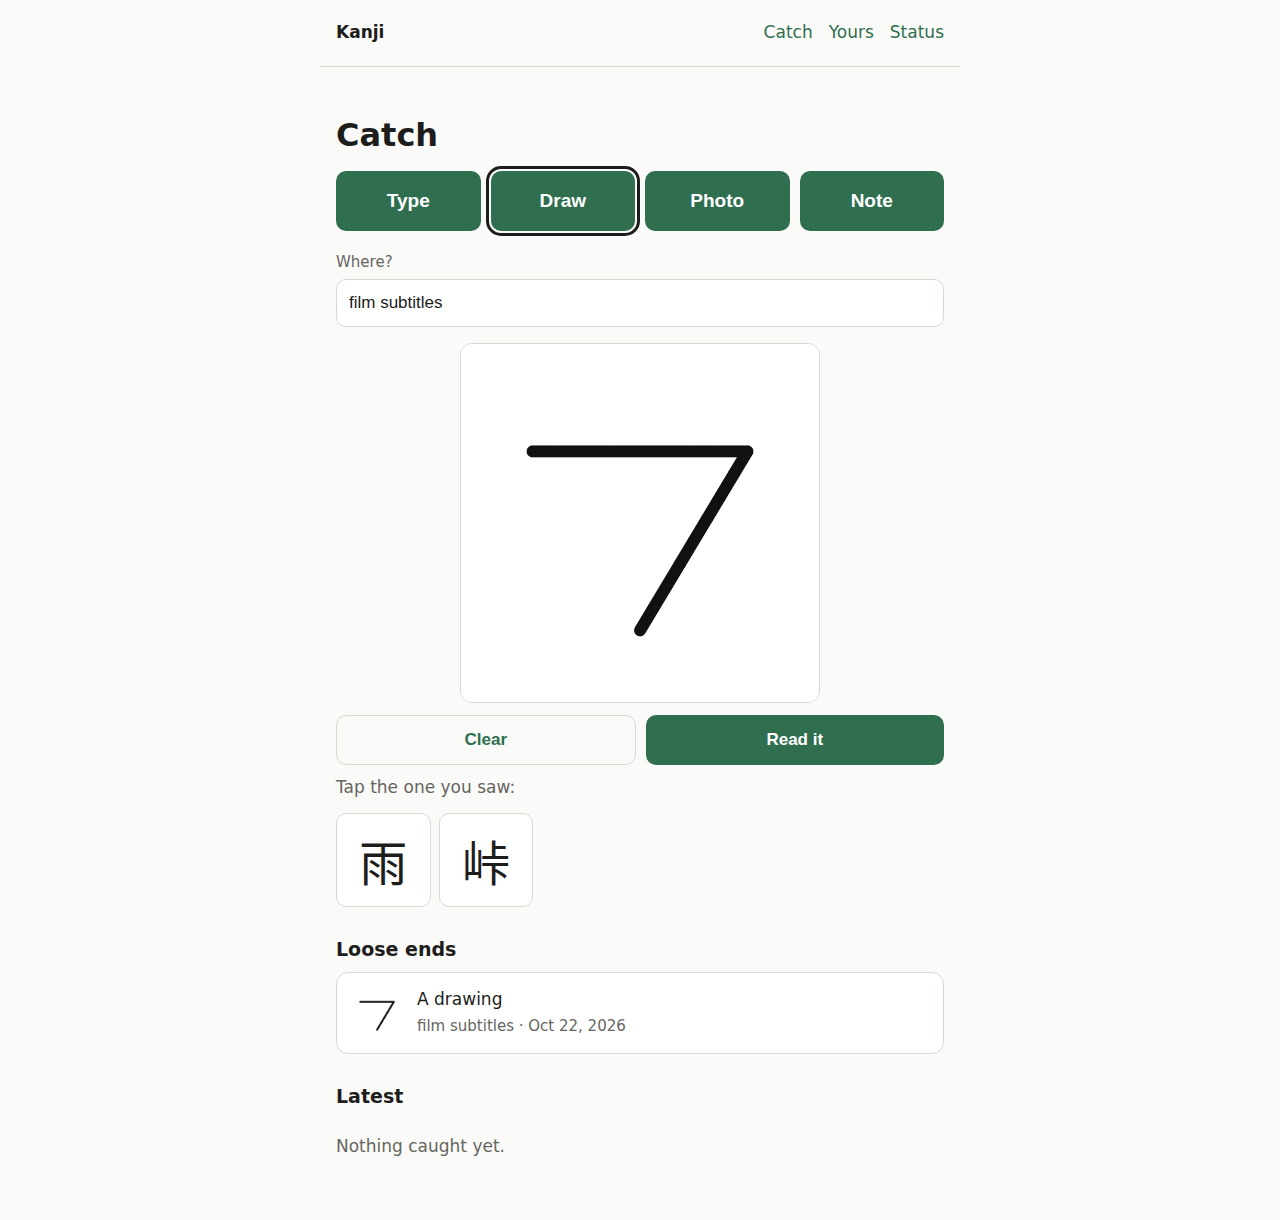
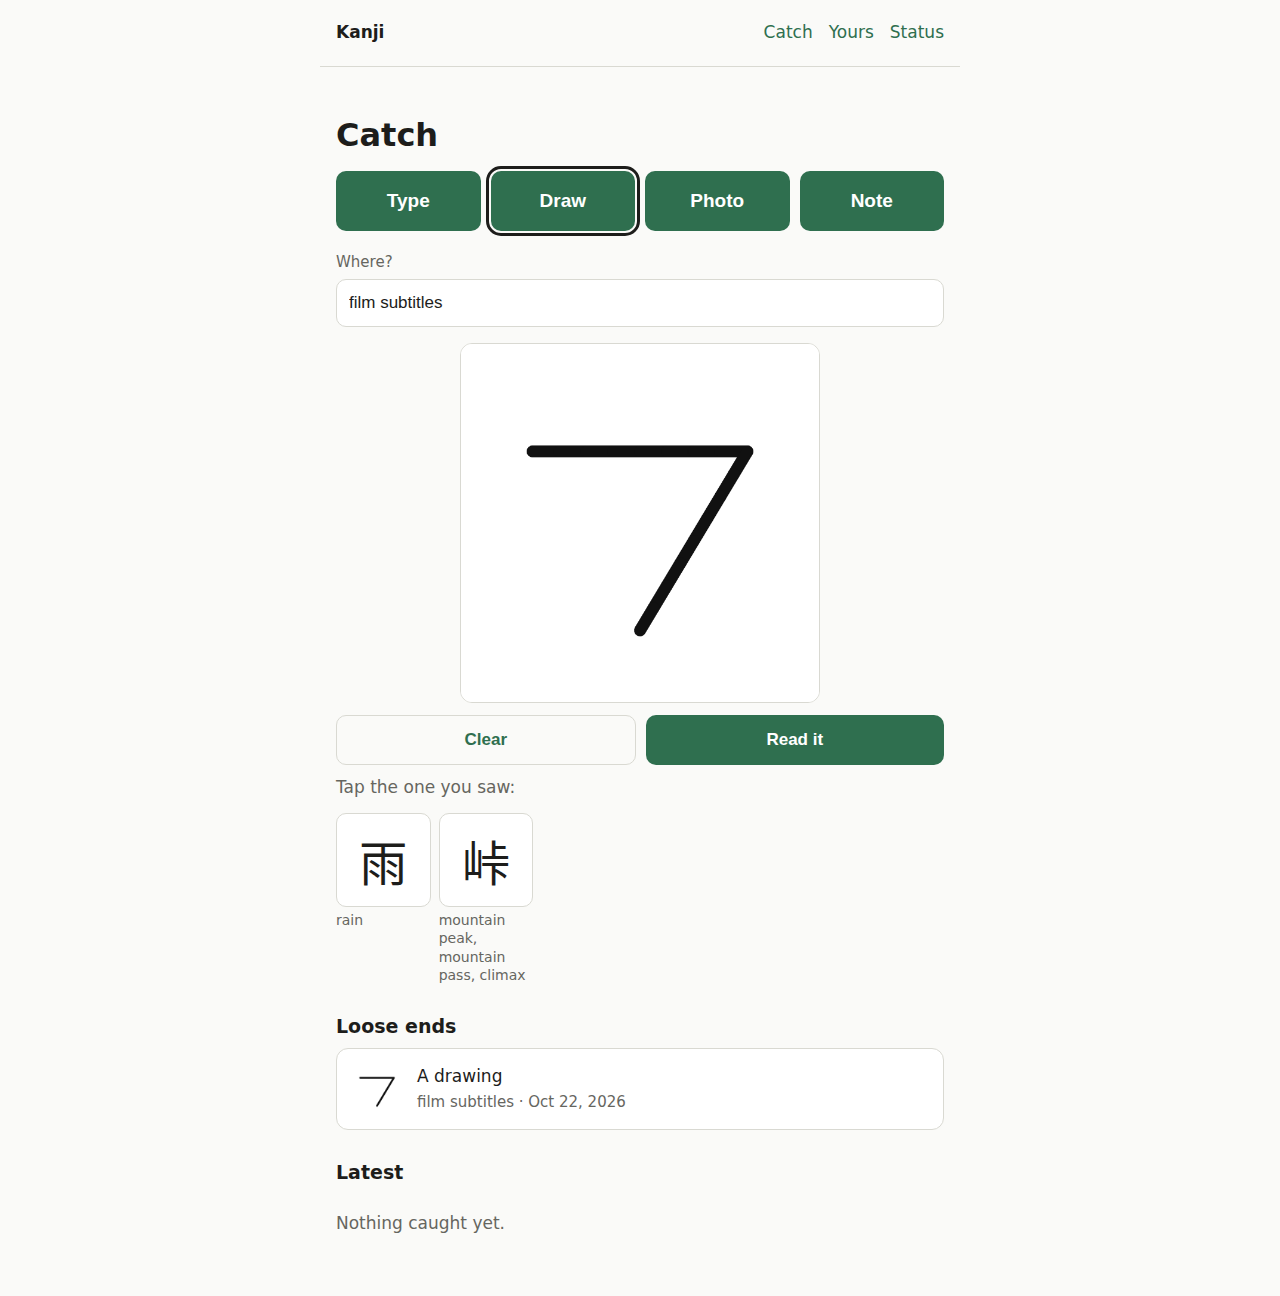
Step 2: Meaning line on the character page and first meanings under each candidate

diff --git a/server.js b/server.js
@@ -104,6 +104,15 @@ const param = (s) => { try { return decodeURIComponent(s); } catch { return s; }
 // A catch as the pages read it: its image as an address on this site.
 const shown = (c) => ({ ...c, image: c.image ? `/img/${c.image}` : null });
 
+// Candidates are answered with `meaning`: each candidate's first three
+// meanings from the data, by character; one with none is left out.
+const CANDIDATE_MEANINGS = 3;
+function meanings(chars) {
+  const out = {};
+  for (const c of chars) { const m = kanji.get(c)?.meaning; if (m) out[c] = m.slice(0, CANDIDATE_MEANINGS); }
+  return out;
+}
+
 function mustChar(value) {
   if (typeof value !== 'string' || !value) throw Object.assign(new Error('char is required: one kanji from the data (KANJIDIC2)'), { status: 400 });
   return kanji.mustGet(value).c;
@@ -117,9 +126,9 @@ route('POST', /^\/catch$/, async (req, res) => {
   if (kind === 'typed') {
     const typed = text(body.text, 200);
     const candidates = kanji.inText(typed);
-    if (!candidates.length) return sendJson(res, 200, { catch: null, candidates: [], message: 'No kanji from the data in what you typed.' });
+    if (!candidates.length) return sendJson(res, 200, { catch: null, candidates: [], meaning: {}, message: 'No kanji from the data in what you typed.' });
     const c = db.addCatch({ kind, note: typed, where });
-    return sendJson(res, 200, { catch: shown(c), candidates });
+    return sendJson(res, 200, { catch: shown(c), candidates, meaning: meanings(candidates) });
   }
   if (kind === 'note') {
     const note = text(body.note);
@@ -148,7 +157,7 @@ route('POST', /^\/catch\/([^/]+)\/read$/, async (req, res, m) => {
   if (!image) throw Object.assign(new Error(`catch ${c.id} has no image to read; send a drawing as image, or read a drawn or photo catch`), { status: 400 });
   try {
     const got = await vision.read(c.kind === 'photo' && image === c.image ? 'photo' : 'drawn', images.dataUrl(image));
-    return sendJson(res, 200, { catch: shown(c), candidates: got.candidates, dropped: got.dropped });
+    return sendJson(res, 200, { catch: shown(c), candidates: got.candidates, meaning: meanings(got.candidates), dropped: got.dropped });
   } catch (e) {
     if (!(e instanceof vision.ReadError)) throw e;
     return sendJson(res, e.status, { error: e.message, catch: shown(db.getCatch(c.id)) });
@@ -195,7 +204,8 @@ route('GET', /^\/data\/group\/([^/]+)\/([^/]+)$/, (req, res, m) => {
 // The characters of typed text that are in the data, for resolving a loose
 // end by typing. Makes no catch.
 route('GET', /^\/data\/candidates$/, (req, res) => {
-  sendJson(res, 200, { candidates: kanji.inText(new URL(req.url, 'http://x').searchParams.get('text')) });
+  const candidates = kanji.inText(new URL(req.url, 'http://x').searchParams.get('text'));
+  sendJson(res, 200, { candidates, meaning: meanings(candidates) });
 });
 
 // Every value of a fact kind that some character in the data has.
@@ -225,7 +235,9 @@ route('GET', /^\/k\/([^/]+)$/, (req, res, m) => {
   const q = new URL(req.url, 'http://x').searchParams;
   const fromKind = kanji.KINDS.includes(q.get('kind')) ? q.get('kind') : null;
   db.recordOpen(k.c, fromKind, fromKind ? text(q.get('value'), 100) : null);
-  sendHtml(res, 200, page('char.html', { CHAR: k.c }));
+  // The Meaning line is in the page as it comes, so nothing moves under
+  // Save when the facts load.
+  sendHtml(res, 200, page('char.html', { CHAR: k.c, MEANING: k.meaning ? k.meaning.join(', ') : '—' }));
 });
 
 route('GET', /^\/g\/([^/]+)\/([^/]+)$/, (req, res, m) => {

diff --git a/public/js/catch.js b/public/js/catch.js
@@ -39,7 +39,7 @@ async function readInto(out, catchId, image, after = () => {}) {
   try {
     const got = await api('POST', `/catch/${catchId}/read`, image ? { image } : undefined);
     if (!got.candidates.length) { reading.textContent = 'No kanji from the data in it. It is kept as a loose end.'; return; }
-    const list = candidateList(got.candidates, (c, l, b) => choose(catchId, c, l, b).then(after).catch((e) => l.after(say(e.message, true))));
+    const list = candidateList(got.candidates, (c, l, b) => choose(catchId, c, l, b).then(after).catch((e) => l.after(say(e.message, true))), got.meaning);
     out.replaceChildren(el('p', { class: 'say' }, 'Tap the one you saw:'), list);
   } catch (e) {
     out.replaceChildren(say(`${e.message} It is kept as a loose end.`, true));
@@ -64,7 +64,7 @@ $('type-form').addEventListener('submit', async (e) => {
     const got = await api('POST', '/catch', { kind: 'typed', text: $('typed').value, where: where() });
     if (!got.candidates.length) { out.replaceChildren(say(got.message || 'No kanji from the data in what you typed.')); return; }
     out.replaceChildren(el('ul', { class: 'chars big candidates' }, got.candidates.map((c) =>
-      el('li', {}, el('a', { href: charLink(c, `?catch=${got.catch.id}`), lang: 'ja' }, c)))));
+      el('li', {}, el('a', { href: charLink(c, `?catch=${got.catch.id}`), lang: 'ja' }, c), gloss(got.meaning, c)))));
     loadHome();
   } catch (err) { out.replaceChildren(say(err.message, true)); }
 });
@@ -152,7 +152,7 @@ function resolver(c, li) {
     e.preventDefault();
     try {
       const got = await api('GET', `/data/candidates?text=${encodeURIComponent(typed.value)}`);
-      out.replaceChildren(got.candidates.length ? candidateList(got.candidates, pick) : say('No kanji from the data in what you typed.'));
+      out.replaceChildren(got.candidates.length ? candidateList(got.candidates, pick, got.meaning) : say('No kanji from the data in what you typed.'));
     } catch (err) { out.replaceChildren(say(err.message, true)); }
   } }, typed, el('button', { class: 'btn', type: 'submit' }, 'Look up'));
 
@@ -163,7 +163,7 @@ function resolver(c, li) {
     out.replaceChildren(say('Reading…'));
     try {
       const got = await api('POST', `/catch/${c.id}/read`, image ? { image } : undefined);
-      out.replaceChildren(got.candidates.length ? candidateList(got.candidates, pick) : say('No kanji from the data in it.'));
+      out.replaceChildren(got.candidates.length ? candidateList(got.candidates, pick, got.meaning) : say('No kanji from the data in it.'));
     } catch (e) { out.replaceChildren(say(e.message, true)); }
   };
   const buttons = el('div', { class: 'row' },

diff --git a/test/catch.test.js b/test/catch.test.js
@@ -251,6 +251,23 @@ test('a repeated catch of a saved character resolves the new catch and keeps the
   assert.deepEqual(char.catches.map((c) => c.id), [again.catch.id, first.catch.id]);
 });
 
+test('meanings: the character page shows the Meaning line; the char answer and every candidates answer carry meaning', async () => {
+  const page = await (await fetch(`${base}/k/${encodeURIComponent('峠')}`, { headers: { cookie: jar } })).text();
+  assert.match(page, /<div class="meaning" id="meaning"><h2>Meaning<\/h2><p>mountain peak, mountain pass, climax, crest, \(kokuji\)<\/p><\/div>/);
+  const none = await (await fetch(`${base}/k/${encodeURIComponent('乁')}`, { headers: { cookie: jar } })).text();
+  assert.match(none, /<h2>Meaning<\/h2><p>—<\/p>/);
+  const char = await (await json('GET', `/data/char/${encodeURIComponent('雨')}`)).json();
+  assert.deepEqual(char.kanji.meaning, ['rain']);
+  const typed = await (await json('POST', '/catch', { kind: 'typed', text: '峠の雨、乁' })).json();
+  assert.deepEqual(typed.candidates, ['峠', '雨', '乁']);
+  assert.deepEqual(typed.meaning, { 峠: ['mountain peak', 'mountain pass', 'climax'], 雨: ['rain'] });
+  const looked = await (await json('GET', `/data/candidates?text=${encodeURIComponent('峠')}`)).json();
+  assert.deepEqual(looked.meaning, { 峠: ['mountain peak', 'mountain pass', 'climax'] });
+  const drawn = await (await json('POST', '/catch', { kind: 'drawn', image: png(200, 200) })).json();
+  const read = await (await json('POST', `/catch/${drawn.catch.id}/read`)).json();
+  assert.deepEqual(read.meaning, { 雨: ['rain'], 峠: ['mountain peak', 'mountain pass', 'climax'] });
+});
+
 test('reopening the home page makes no model request', async () => {
   const before = await calls();
   for (let i = 0; i < 3; i++) {

diff --git a/public/app.css b/public/app.css
@@ -148,6 +148,7 @@ input.typebox { font-size: 26px; }
 }
 .chars.big a, .chars.big button { font-size: 48px; }
 .chars .saved { background: var(--tint); }
+.chars .gloss { display: block; margin-top: 4px; font-size: 14px; line-height: 1.3; color: var(--muted); overflow-wrap: anywhere; }
 .chars .origin { outline: 3px solid var(--accent); outline-offset: -1px; border-color: var(--accent); }
 .result { padding: 14px 16px; border: 1px solid var(--accent); border-radius: 10px; background: var(--tint); margin: 12px 0; }
 .result a { color: var(--accent); font-weight: 600; }
@@ -161,7 +162,9 @@ input.typebox { font-size: 26px; }
 .loose .open { border: 1px solid var(--line); border-top: 0; border-radius: 0 0 12px 12px; padding: 12px; margin-top: -6px; background: var(--card); }
 
 /* The character page. */
-.char-top { display: flex; align-items: center; gap: 20px; margin: 8px 0 12px; }
+.char-top { display: flex; flex-direction: column; align-items: flex-start; gap: 12px; margin: 8px 0 12px; }
+.meaning h2 { font-size: 15px; font-weight: 400; color: var(--muted); margin: 0 0 2px; }
+.meaning p { margin: 0; font-size: 19px; overflow-wrap: anywhere; }
 .big-char { font-family: var(--kanji-font); font-size: 132px; line-height: 1.1; margin: 0; font-weight: 400; }
 .char-top .btn { width: auto; min-width: 128px; padding: 0 24px; margin: 0; }
 .btn.is-saved { background: var(--tint); color: var(--accent); border: 1px solid var(--accent); }

diff --git a/public/js/common.js b/public/js/common.js
@@ -106,11 +106,18 @@ function reducePhoto(file, maxSide = 1600) {
   });
 }
 
-// A row of candidates as large characters to tap; onPick(char, list,
-// button) gets the list, whose place the result takes, and the button he
-// pressed, where the result is put.
-function candidateList(chars, onPick) {
+// A candidate's first meanings from the data, in small text under it, so
+// Dan can tell which one he saw; nothing when the data has none.
+const gloss = (meaning, c) => (meaning && meaning[c] ? el('span', { class: 'gloss' }, meaning[c].join(', ')) : null);
+
+// A row of candidates as large characters to tap, each with its first
+// meanings (`meaning`, by character, as the server answers it);
+// onPick(char, list, button) gets the list, whose place the result takes,
+// and the button he pressed, where the result is put.
+function candidateList(chars, onPick, meaning = {}) {
   const list = el('ul', { class: 'chars big candidates' });
-  list.append(...chars.map((c) => el('li', {}, el('button', { type: 'button', lang: 'ja', 'data-char': c, onclick: (e) => onPick(c, list, e.currentTarget) }, c))));
+  list.append(...chars.map((c) => el('li', {},
+    el('button', { type: 'button', lang: 'ja', 'data-char': c, onclick: (e) => onPick(c, list, e.currentTarget) }, c),
+    gloss(meaning, c))));
   return list;
 }

diff --git a/public/char.html b/public/char.html
@@ -14,6 +14,7 @@
 <main>
   <div class="char-top">
     <h1 class="big-char" lang="ja">{{CHAR}}</h1>
+    <div class="meaning" id="meaning"><h2>Meaning</h2><p>{{MEANING}}</p></div>
     <button class="btn" type="button" id="save" disabled>Save</button>
   </div>
   <p class="say" id="say"></p>
